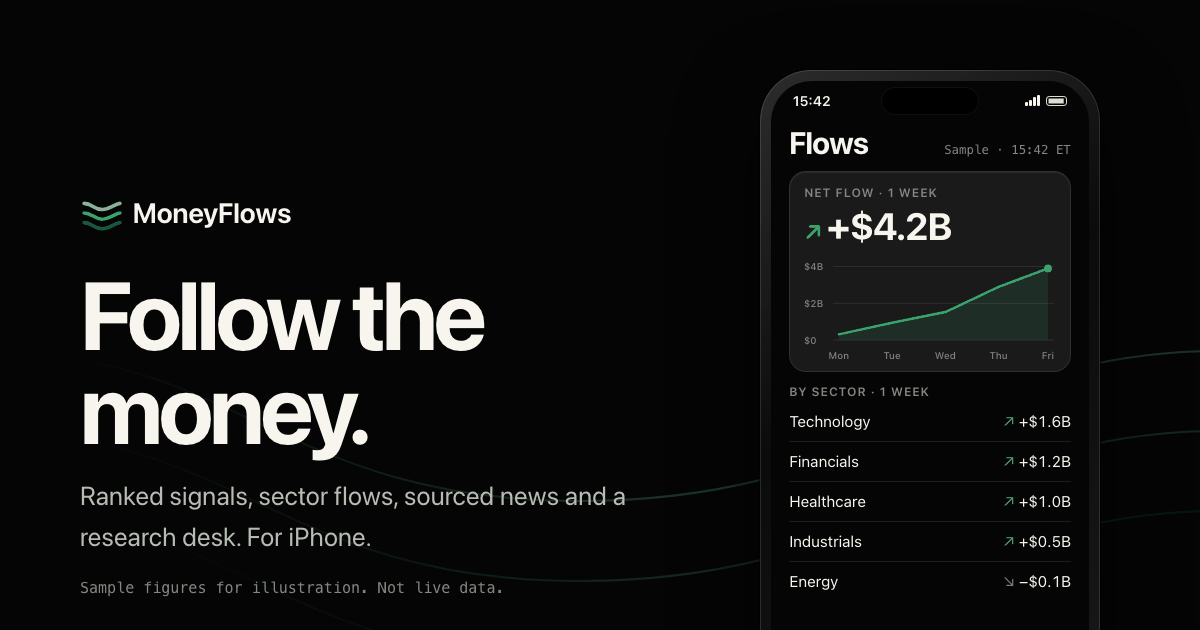
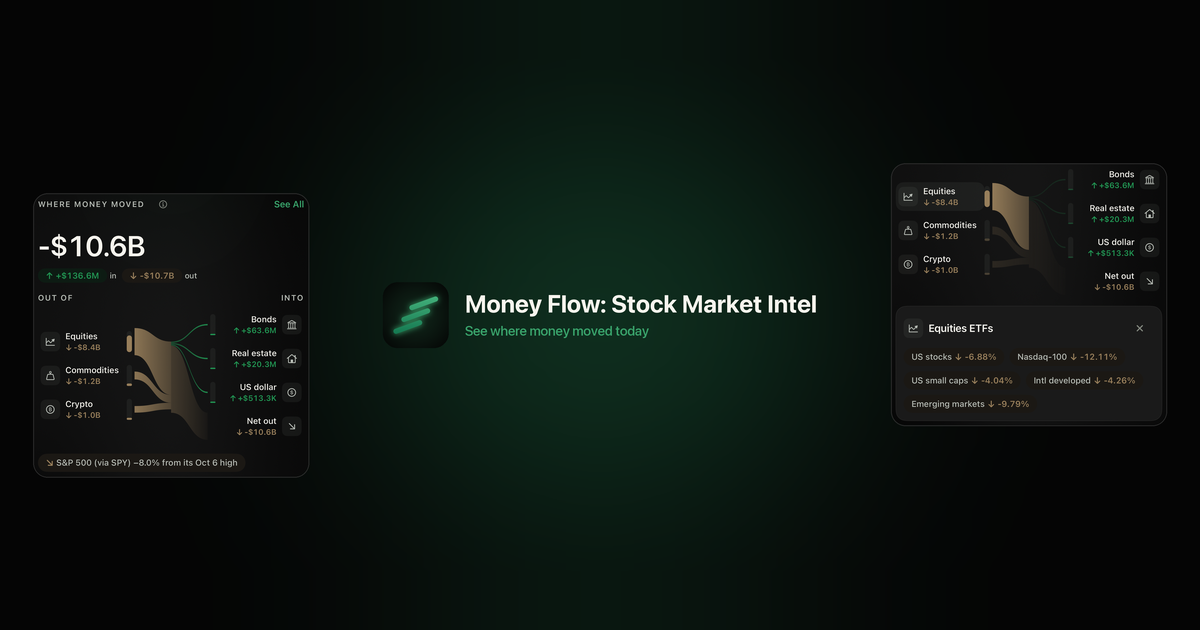
Real app screens from the 2.6.1 redesign, copy matches the new store page
Replace the drawn phones with captured Home, flows, sectors, stock, news and
research screens (WebP 400/800 with PNG fallback, lazy below the hero, light
Home in light mode). Hero, meta, pillars, tour and FAQ follow the new store
copy: see where money moved today, iPhone and iPad, prices 15-minute delayed,
flows are estimates. og.png rebuilt from the store header art.

diff --git a/index.html b/index.html
@@ -3,18 +3,18 @@
 <head>
 <meta charset="UTF-8">
 <meta name="viewport" content="width=device-width, initial-scale=1, viewport-fit=cover">
-<title>MoneyFlows: Follow the money.</title>
-<meta name="description" content="See where money is moving in the market, and why. Ranked signals, sector flows, news that names its source and an AI research assistant, for iPhone.">
+<title>MoneyFlows: See where money moved today.</title>
+<meta name="description" content="See where money is moving today, from stocks and sectors to bonds, gold, oil and crypto, in one calm view. For iPhone and iPad.">
 <meta name="theme-color" content="#050505" media="(prefers-color-scheme: dark)">
 <meta name="theme-color" content="#f2f4f6" media="(prefers-color-scheme: light)">
-<meta property="og:title" content="MoneyFlows: Follow the money.">
-<meta property="og:description" content="See where money is moving in the market, and why. Ranked signals, sector flows, news that names its source and an AI research assistant, for iPhone.">
+<meta property="og:title" content="MoneyFlows: See where money moved today.">
+<meta property="og:description" content="See where money is moving today, from stocks and sectors to bonds, gold, oil and crypto, in one calm view. For iPhone and iPad.">
 <meta property="og:type" content="website">
 <meta property="og:url" content="https://yrafique.github.io/">
 <meta property="og:image" content="https://yrafique.github.io/og.png">
 <meta property="og:image:width" content="1200">
 <meta property="og:image:height" content="630">
-<meta property="og:image:alt" content="MoneyFlows: Follow the money. Illustration of the app with sample figures.">
+<meta property="og:image:alt" content="Money Flow: Stock Market Intel. See where money moved today. App screens showing estimated flows across asset classes.">
 <meta name="twitter:card" content="summary_large_image">
 <meta name="apple-itunes-app" content="app-id=6760608278">
 <link rel="canonical" href="https://yrafique.github.io/">
@@ -22,7 +22,7 @@
 <link rel="apple-touch-icon" href="apple-touch-icon.png">
 <link rel="stylesheet" href="styles.css">
 <script>document.documentElement.classList.add("js")</script>
-<script type="application/ld+json">{"@context":"https://schema.org","@type":"SoftwareApplication","name":"MoneyFlows","operatingSystem":"iOS","applicationCategory":"FinanceApplication","description":"Market research for iPhone: ranked signals, sector flows, news that names its source and an AI research assistant. Research, not advice.","url":"https://yrafique.github.io/","downloadUrl":"https://apps.apple.com/us/app/id6760608278","installUrl":"https://apps.apple.com/us/app/id6760608278","image":"https://yrafique.github.io/og.png"}</script>
+<script type="application/ld+json">{"@context":"https://schema.org","@type":"SoftwareApplication","name":"MoneyFlows","operatingSystem":"iOS","applicationCategory":"FinanceApplication","description":"See where money is moving today, from stocks and sectors to bonds, gold, oil and crypto. Research, not advice.","url":"https://yrafique.github.io/","downloadUrl":"https://apps.apple.com/us/app/id6760608278","installUrl":"https://apps.apple.com/us/app/id6760608278","image":"https://yrafique.github.io/og.png"}</script>
 </head>
 <body>
 <a class="skip" href="#main">Skip to content</a>
@@ -57,33 +57,18 @@
 </svg>
   <div class="wrap hero-grid">
     <div class="hero-copy">
-      <p class="eyebrow">Market research for iPhone</p>
-      <h1 id="hero-h">Follow the money.</h1>
-      <p class="lede">See where money is moving and why: ranked signals, sector flows, news that names its source, and a research assistant that shows its work.</p>
+      <p class="eyebrow">Market research for iPhone and iPad</p>
+      <h1 id="hero-h">See where money moved today.</h1>
+      <p class="lede">From stocks and sectors to bonds, gold, oil and crypto, in one calm view. One flow visual shows which asset classes drew money in and which saw it leave.</p>
       <div class="cta-row">
         <a class="btn btn-primary btn-lg" href="https://apps.apple.com/us/app/id6760608278">Download on the App Store</a>
         <a class="btn btn-quiet btn-lg" href="#tour">See how it works</a>
       </div>
-      <p class="fine">Research, not advice. Prices may be delayed up to about 15 minutes.</p>
+      <p class="fine">Research, not advice. Stock prices are 15-minute delayed. Flows are estimates from price and volume, not reported fund flows.</p>
     </div>
-    <div class="hero-device h-in" style="--d:1"><figure class="shot hero-shot" id="shot-hero" data-name="Flows">
-  <div class="phone"><div class="screen"><div class="status" aria-hidden="true"><span class="clock">15:42</span><span class="island"></span><span class="sys"><i></i><i></i><i></i><i></i><em></em></span></div><div class="app"><div class="app-title"><b>Flows</b><span class="stamp">Sample &middot; 15:42 ET</span></div>
-<div class="tile">
-  <p class="app-eye">Net flow &middot; 1 week</p>
-  <p class="big"><span class="up" aria-hidden="true">&#8599;</span><span class="tab">+$<span data-roll="4.2">4.2</span>B</span></p>
-  <svg class="spark" viewBox="0 0 260 112" width="260" height="112" aria-hidden="true">
-    <line class="grid" x1="30" x2="258" y1="14" y2="14"/><line class="grid" x1="30" x2="258" y1="52" y2="52"/><line class="grid" x1="30" x2="258" y1="90" y2="90"/>
-    <text x="0" y="18">$4B</text><text x="0" y="56">$2B</text><text x="0" y="94">$0</text>
-    <path class="area" d="M36 84 L91 72 L146 61 L201 35 L252 16 L252 90 L36 90 Z"/>
-    <path class="line" pathLength="1" d="M36 84 L91 72 L146 61 L201 35 L252 16"/>
-    <circle class="dot" cx="252" cy="16" r="4"/>
-    <text x="36" y="109" text-anchor="middle">Mon</text><text x="91" y="109" text-anchor="middle">Tue</text><text x="146" y="109" text-anchor="middle">Wed</text><text x="201" y="109" text-anchor="middle">Thu</text><text x="252" y="109" text-anchor="middle">Fri</text>
-  </svg>
-</div>
-<p class="app-eye pad">By sector &middot; 1 week</p>
-<ul class="list"><li class="row" style="--i:0"><span>Technology</span><span class="tab"><span class="up" aria-hidden="true">&#8599;</span> +$1.6B</span></li><li class="row" style="--i:1"><span>Financials</span><span class="tab"><span class="up" aria-hidden="true">&#8599;</span> +$1.2B</span></li><li class="row" style="--i:2"><span>Healthcare</span><span class="tab"><span class="up" aria-hidden="true">&#8599;</span> +$1.0B</span></li><li class="row" style="--i:3"><span>Industrials</span><span class="tab"><span class="up" aria-hidden="true">&#8599;</span> +$0.5B</span></li><li class="row" style="--i:4"><span>Energy</span><span class="tab"><span class="down" aria-hidden="true">&#8600;</span> &minus;$0.1B</span></li></ul>
-<p class="app-note">Updated 15:42 ET &middot; Delayed up to ~15 min</p></div><div class="tabs" aria-hidden="true"><span class=""><svg class="ico" width="24" height="24" aria-hidden="true" focusable="false"><use href="#i-home"/></svg><b>Home</b></span><span class="on"><svg class="ico" width="24" height="24" aria-hidden="true" focusable="false"><use href="#i-markets"/></svg><b>Markets</b></span><span class=""><svg class="ico" width="24" height="24" aria-hidden="true" focusable="false"><use href="#i-search"/></svg><b>Search</b></span><span class=""><svg class="ico" width="24" height="24" aria-hidden="true" focusable="false"><use href="#i-signals"/></svg><b>Signals</b></span><span class=""><svg class="ico" width="24" height="24" aria-hidden="true" focusable="false"><use href="#i-portfolio"/></svg><b>Portfolio</b></span></div></div></div>
-  <figcaption class="stamp">Sample figures for illustration. Not live data.</figcaption>
+    <div class="hero-device h-in" style="--d:1"><figure class="shot hero-shot" id="shot-hero">
+  <div class="phone"><div class="screen"><picture><source media="(prefers-color-scheme: light)" type="image/webp" srcset="img/home-light-400.webp 400w, img/home-light-800.webp 800w" sizes="(min-width: 900px) 312px, 84vw"><source type="image/webp" srcset="img/home-400.webp 400w, img/home-800.webp 800w" sizes="(min-width: 900px) 312px, 84vw"><img src="img/home-400.png" width="400" height="869" alt="Money Flow Home screen: one month of estimated flows, with money leaving equities, commodities and crypto and going into bonds, real estate and the US dollar." decoding="async" fetchpriority="high"></picture></div></div>
+  <figcaption class="stamp">Real app screen, captured Nov 25, 2026. Flows are estimates.</figcaption>
 </figure></div>
   </div>
 </section>
@@ -92,69 +77,46 @@
   <div class="wrap">
     <h2 id="pill-h" class="sr">What you get</h2>
     <div class="trio">
-      <div class="pillar reveal"><svg class="ico lg" width="24" height="24" aria-hidden="true" focusable="false"><use href="#i-eye"/></svg><p class="eyebrow">See it</p><h3>Signals and flows</h3><p>Unusual activity ranked by one score, and sector flows from one day to five years on charts that label their units.</p></div>
+      <div class="pillar reveal"><svg class="ico lg" width="24" height="24" aria-hidden="true" focusable="false"><use href="#i-eye"/></svg><p class="eyebrow">See it</p><h3>Where money moved</h3><p>Estimated flows across 20 asset classes and all 11 sectors, for any period from one day to five years.</p></div>
       <div class="pillar reveal" style="--i:1"><svg class="ico lg" width="24" height="24" aria-hidden="true" focusable="false"><use href="#i-stamp"/></svg><p class="eyebrow">Trust it</p><h3>Named sources, stamped times</h3><p>Every headline names its publisher. Every figure shows when it was updated. Missing data is shown as missing.</p></div>
-      <div class="pillar reveal" style="--i:2"><svg class="ico lg" width="24" height="24" aria-hidden="true" focusable="false"><use href="#i-chat"/></svg><p class="eyebrow">Ask it</p><h3>A research desk in plain English</h3><p>Ask about a stock, a sector or the day. Answers come from the app&rsquo;s own data and cite what they use.</p></div>
+      <div class="pillar reveal" style="--i:2"><svg class="ico lg" width="24" height="24" aria-hidden="true" focusable="false"><use href="#i-chat"/></svg><p class="eyebrow">Ask it</p><h3>A research desk in plain language</h3><p>Ask about a stock, a sector or the day. Answers come with charts and the sources behind them.</p></div>
     </div>
   </div>
 </section>
 
 <section class="tour-sec" id="tour" aria-labelledby="tour-h">
   <div class="wrap">
-    <div class="sec-head reveal"><p class="eyebrow">A tour of the app</p><h2 id="tour-h">Five screens. One quiet instrument.</h2></div>
-    <div class="tour"><article class="chap" id="ch-signals" data-i="0" style="--o:1">
-  <p class="eyebrow"><span class="num tab">01</span> Signals</p>
-  <h3>Unusual activity, ranked.</h3><p>Volume, price and flow are scored together, so the stocks worth a closer look rise to the top.</p><ul class="points"><li>One score per stock, the same number on every screen</li><li>Pre-market and after-hours moves kept apart from the close</li><li>Every score explained, never a bare verdict</li></ul>
-</article><article class="chap" id="ch-flows" data-i="1" style="--o:3">
-  <p class="eyebrow"><span class="num tab">02</span> Flows</p>
-  <h3>See where the money moved.</h3><p>Net flow by sector over the period you choose, from one day to five years. Axes carry their units, and every figure matches the period on screen.</p><ul class="points"><li>Six periods, one tap each. Try them on the phone</li><li>Inflows in green, outflows in bronze, always with an arrow</li></ul>
-</article><article class="chap" id="ch-news" data-i="2" style="--o:5">
-  <p class="eyebrow"><span class="num tab">03</span> News</p>
-  <h3>Every headline names its source.</h3><p>Market news from about 50 publishers, newest first. Each item shows who published it and when, and opens the publisher&rsquo;s own page.</p><ul class="points"><li>Publisher and time on every headline</li><li>Subscription sources are marked before you tap</li><li>Public filings sit alongside, clearly labelled</li></ul>
-</article><article class="chap" id="ch-desk" data-i="3" style="--o:7">
-  <p class="eyebrow"><span class="num tab">04</span> Research desk</p>
-  <h3>Ask in plain English.</h3><p>Ask about a stock, a sector or the day. The assistant answers from the data the app has loaded, stamps when it was updated and cites the publisher of any headline it uses.</p><ul class="points"><li>Shows its sources and its time</li><li>Research, not advice</li><li>Turns off completely if you prefer</li></ul>
-</article><article class="chap" id="ch-portfolio" data-i="4" style="--o:9">
-  <p class="eyebrow"><span class="num tab">05</span> Portfolio</p>
-  <h3>Your holdings stay on your iPhone.</h3><p>Track what you own with risk measures that state their period. Nothing is uploaded to us, and there is no account.</p><ul class="points"><li>Stored on your device, or your own iCloud if you turn sync on</li><li>AI review is opt-in, and off by default</li><li>Every risk figure labelled with its period</li></ul>
-</article><div class="device"><figure data-i="0" style="--o:2" class="shot " id="shot-signals" data-name="Signals">
-  <div class="phone"><div class="screen"><div class="status" aria-hidden="true"><span class="clock">15:42</span><span class="island"></span><span class="sys"><i></i><i></i><i></i><i></i><em></em></span></div><div class="app"><div class="app-title"><b>Signals</b><span class="stamp">Updated 15:42 ET</span></div>
-<div class="chips" aria-hidden="true"><span class="on">Unusual activity</span><span>Today</span></div>
-<ul class="list sig"><li class="row" style="--i:0"><span class="ring" style="--s:84"><svg viewBox="0 0 36 36" width="36" height="36" aria-hidden="true"><circle class="rt" cx="18" cy="18" r="15.5" pathLength="100"/><circle class="rv" cx="18" cy="18" r="15.5" pathLength="100"/></svg><b class="tab">84</b><span class="sr"> score</span></span><span class="who"><b>Company A</b><span class="stamp">2.4&times; vol &middot; Technology</span></span><span class="tab chg"><span class="up" aria-hidden="true">&#8599;</span> +3.1%</span></li><li class="row" style="--i:1"><span class="ring" style="--s:72"><svg viewBox="0 0 36 36" width="36" height="36" aria-hidden="true"><circle class="rt" cx="18" cy="18" r="15.5" pathLength="100"/><circle class="rv" cx="18" cy="18" r="15.5" pathLength="100"/></svg><b class="tab">72</b><span class="sr"> score</span></span><span class="who"><b>Company B</b><span class="stamp">2.0&times; vol &middot; Financials</span></span><span class="tab chg"><span class="up" aria-hidden="true">&#8599;</span> +1.2%</span></li><li class="row" style="--i:2"><span class="ring" style="--s:66"><svg viewBox="0 0 36 36" width="36" height="36" aria-hidden="true"><circle class="rt" cx="18" cy="18" r="15.5" pathLength="100"/><circle class="rv" cx="18" cy="18" r="15.5" pathLength="100"/></svg><b class="tab">66</b><span class="sr"> score</span></span><span class="who"><b>Company C</b><span class="stamp">1.8&times; vol &middot; Healthcare</span></span><span class="tab chg"><span class="up" aria-hidden="true">&#8599;</span> +0.8%</span></li><li class="row" style="--i:3"><span class="ring" style="--s:58"><svg viewBox="0 0 36 36" width="36" height="36" aria-hidden="true"><circle class="rt" cx="18" cy="18" r="15.5" pathLength="100"/><circle class="rv" cx="18" cy="18" r="15.5" pathLength="100"/></svg><b class="tab">58</b><span class="sr"> score</span></span><span class="who"><b>Company D</b><span class="stamp">1.6&times; vol &middot; Energy</span></span><span class="tab chg"><span class="down" aria-hidden="true">&#8600;</span> &minus;0.7%</span></li><li class="row" style="--i:4"><span class="ring" style="--s:51"><svg viewBox="0 0 36 36" width="36" height="36" aria-hidden="true"><circle class="rt" cx="18" cy="18" r="15.5" pathLength="100"/><circle class="rv" cx="18" cy="18" r="15.5" pathLength="100"/></svg><b class="tab">51</b><span class="sr"> score</span></span><span class="who"><b>Company E</b><span class="stamp">1.4&times; vol &middot; Industrials</span></span><span class="tab chg"><span class="up" aria-hidden="true">&#8599;</span> +0.3%</span></li><li class="row" style="--i:5"><span class="ring" style="--s:47"><svg viewBox="0 0 36 36" width="36" height="36" aria-hidden="true"><circle class="rt" cx="18" cy="18" r="15.5" pathLength="100"/><circle class="rv" cx="18" cy="18" r="15.5" pathLength="100"/></svg><b class="tab">47</b><span class="sr"> score</span></span><span class="who"><b>Company F</b><span class="stamp">1.3&times; vol &middot; Utilities</span></span><span class="tab chg"><span class="up" aria-hidden="true">&#8599;</span> +0.2%</span></li></ul>
-<p class="app-note">One score per stock, on every screen.</p></div><div class="tabs" aria-hidden="true"><span class=""><svg class="ico" width="24" height="24" aria-hidden="true" focusable="false"><use href="#i-home"/></svg><b>Home</b></span><span class=""><svg class="ico" width="24" height="24" aria-hidden="true" focusable="false"><use href="#i-markets"/></svg><b>Markets</b></span><span class=""><svg class="ico" width="24" height="24" aria-hidden="true" focusable="false"><use href="#i-search"/></svg><b>Search</b></span><span class="on"><svg class="ico" width="24" height="24" aria-hidden="true" focusable="false"><use href="#i-signals"/></svg><b>Signals</b></span><span class=""><svg class="ico" width="24" height="24" aria-hidden="true" focusable="false"><use href="#i-portfolio"/></svg><b>Portfolio</b></span></div></div></div>
-  <figcaption class="stamp">Sample figures for illustration. Not live data.</figcaption>
-</figure><figure data-i="1" style="--o:4" class="shot " id="shot-flows" data-name="Flows">
-  <div class="phone"><div class="screen"><div class="status" aria-hidden="true"><span class="clock">15:42</span><span class="island"></span><span class="sys"><i></i><i></i><i></i><i></i><em></em></span></div><div class="app"><div class="app-title"><b>Flows</b><span class="stamp">Updated 15:42 ET</span></div>
-<div class="periods" role="group" aria-label="Period"><button type="button" data-p="1D" aria-pressed="false">1D</button><button type="button" data-p="1W" aria-pressed="true">1W</button><button type="button" data-p="1M" aria-pressed="false">1M</button><button type="button" data-p="3M" aria-pressed="false">3M</button><button type="button" data-p="1Y" aria-pressed="false">1Y</button><button type="button" data-p="5Y" aria-pressed="false">5Y</button></div>
-<div class="tile ftot"><span class="app-eye">All sectors &middot; <span class="pname">1W</span></span><b class="tab ftotal"><span class="up" aria-hidden="true">&#8599;</span> +$6.2B</b></div>
-<p class="app-eye pad">By sector, US$ &middot; <span class="pname">1W</span></p>
-<ul class="flows" data-flows='{"sectors":["Technology","Financials","Healthcare","Industrials","Utilities","Energy"],"periods":{"1D":[0.8,1.2,1.0,-0.09,0.2,-0.3],"1W":[3.1,2.4,1.6,0.4,-0.2,-1.1],"1M":[9.8,6.2,4.1,2.2,-1.4,-3.5],"3M":[21,14,8.5,5.1,3.0,-9.2],"1Y":[64,38,22,12,-6.5,-31],"5Y":[210,96,71,35,18,-88]}}'><li style="--i:0"><span class="fname">Technology</span><span class="ftrack"><i class="fneg" style="--w:0.000"></i><i class="fpos" style="--w:0.620"></i></span><span class="fval"><span class="up" aria-hidden="true">&#8599;</span> <span class="fnum">+$3.1B</span></span></li><li style="--i:1"><span class="fname">Financials</span><span class="ftrack"><i class="fneg" style="--w:0.000"></i><i class="fpos" style="--w:0.480"></i></span><span class="fval"><span class="up" aria-hidden="true">&#8599;</span> <span class="fnum">+$2.4B</span></span></li><li style="--i:2"><span class="fname">Healthcare</span><span class="ftrack"><i class="fneg" style="--w:0.000"></i><i class="fpos" style="--w:0.320"></i></span><span class="fval"><span class="up" aria-hidden="true">&#8599;</span> <span class="fnum">+$1.6B</span></span></li><li style="--i:3"><span class="fname">Industrials</span><span class="ftrack"><i class="fneg" style="--w:0.000"></i><i class="fpos" style="--w:0.080"></i></span><span class="fval"><span class="up" aria-hidden="true">&#8599;</span> <span class="fnum">+$400M</span></span></li><li style="--i:4"><span class="fname">Utilities</span><span class="ftrack"><i class="fneg" style="--w:0.080"></i><i class="fpos" style="--w:0.000"></i></span><span class="fval"><span class="down" aria-hidden="true">&#8600;</span> <span class="fnum">&minus;$200M</span></span></li><li style="--i:5"><span class="fname">Energy</span><span class="ftrack"><i class="fneg" style="--w:0.440"></i><i class="fpos" style="--w:0.000"></i></span><span class="fval"><span class="down" aria-hidden="true">&#8600;</span> <span class="fnum">&minus;$1.1B</span></span></li></ul>
-<div class="axis" aria-hidden="true"><span class="ticks"><span style="--x:0">&minus;$2.5B</span><span style="--x:1">$0</span><span style="--x:2">+$2.5B</span><span style="--x:3">+$5B</span></span></div>
-<p class="app-note"><span class="up" aria-hidden="true">&#8599;</span> inflow &nbsp; <span class="down" aria-hidden="true">&#8600;</span> outflow, always with an arrow.</p></div><div class="tabs" aria-hidden="true"><span class=""><svg class="ico" width="24" height="24" aria-hidden="true" focusable="false"><use href="#i-home"/></svg><b>Home</b></span><span class="on"><svg class="ico" width="24" height="24" aria-hidden="true" focusable="false"><use href="#i-markets"/></svg><b>Markets</b></span><span class=""><svg class="ico" width="24" height="24" aria-hidden="true" focusable="false"><use href="#i-search"/></svg><b>Search</b></span><span class=""><svg class="ico" width="24" height="24" aria-hidden="true" focusable="false"><use href="#i-signals"/></svg><b>Signals</b></span><span class=""><svg class="ico" width="24" height="24" aria-hidden="true" focusable="false"><use href="#i-portfolio"/></svg><b>Portfolio</b></span></div></div></div>
-  <figcaption class="stamp">Sample figures for illustration. Not live data.</figcaption>
-</figure><figure data-i="2" style="--o:6" class="shot " id="shot-news" data-name="News">
-  <div class="phone"><div class="screen"><div class="status" aria-hidden="true"><span class="clock">15:42</span><span class="island"></span><span class="sys"><i></i><i></i><i></i><i></i><em></em></span></div><div class="app"><div class="app-title"><b>News</b><span class="stamp">Newest first</span></div>
-<div class="chips" aria-hidden="true"><span class="on">Market</span><span>Watchlist</span><span>Filings</span></div>
-<ul class="list"><li class="row news" style="--i:0"><b>Central bank holds rates steady, signals patience</b><span class="stamp">Publisher A &middot; 12 min</span></li><li class="row news" style="--i:1"><b>Chipmaker lifts full-year outlook after strong quarter</b><span class="stamp">Publisher B &middot; 41 min</span><span class="sub"><svg class="ico xs" width="24" height="24" aria-hidden="true" focusable="false"><use href="#i-lock"/></svg>Subscription</span></li><li class="row news" style="--i:2"><b>Oil edges higher as weekly inventories fall</b><span class="stamp">Publisher C &middot; 1 h</span></li><li class="row news" style="--i:3"><b>Company D files quarterly report</b><span class="stamp">Public filing &middot; 2 h</span></li><li class="row news" style="--i:4"><b>Treasury yields slip after jobs data</b><span class="stamp">Publisher D &middot; 3 h</span></li></ul>
-<p class="app-note">Sample headlines. Tap one to open the publisher&rsquo;s page.</p></div><div class="tabs" aria-hidden="true"><span class="on"><svg class="ico" width="24" height="24" aria-hidden="true" focusable="false"><use href="#i-home"/></svg><b>Home</b></span><span class=""><svg class="ico" width="24" height="24" aria-hidden="true" focusable="false"><use href="#i-markets"/></svg><b>Markets</b></span><span class=""><svg class="ico" width="24" height="24" aria-hidden="true" focusable="false"><use href="#i-search"/></svg><b>Search</b></span><span class=""><svg class="ico" width="24" height="24" aria-hidden="true" focusable="false"><use href="#i-signals"/></svg><b>Signals</b></span><span class=""><svg class="ico" width="24" height="24" aria-hidden="true" focusable="false"><use href="#i-portfolio"/></svg><b>Portfolio</b></span></div></div></div>
-  <figcaption class="stamp">Sample figures for illustration. Not live data.</figcaption>
-</figure><figure data-i="3" style="--o:8" class="shot " id="shot-desk" data-name="Research desk">
-  <div class="phone"><div class="screen"><div class="status" aria-hidden="true"><span class="clock">15:42</span><span class="island"></span><span class="sys"><i></i><i></i><i></i><i></i><em></em></span></div><div class="app"><div class="app-title"><b>Research</b><span class="stamp">Research desk</span></div>
-<div class="chat">
-  <p class="bubble you">Why did financials lead inflows this week?</p>
-  <div class="bubble desk"><p class="typed"><span class="w">Financials</span> <span class="w">took</span> <span class="w">the</span> <span class="w">largest</span> <span class="w">net</span> <span class="w">inflow</span> <span class="w">this</span> <span class="w">week,</span> <span class="w">about</span> <span class="w">$1.2B</span> <span class="w">in</span> <span class="w">this</span> <span class="w">sample,</span> <span class="w">with</span> <span class="w">volume</span> <span class="w">running</span> <span class="w">above</span> <span class="w">its</span> <span class="w">20-day</span> <span class="w">average.</span> <span class="w">Two</span> <span class="w">headlines</span> <span class="w">point</span> <span class="w">to</span> <span class="w">rate</span> <span class="w">expectations</span> <span class="w">as</span> <span class="w">the</span> <span class="w">driver.</span></p>
-    <p class="cite stamp">Sources: Publisher A &middot; Publisher C</p>
-    <p class="stamp">Updated 15:42 ET &middot; Research, not advice</p></div>
-</div>
-<div class="suggest" aria-hidden="true"><span>Show the headlines</span><span>Compare with healthcare</span></div>
-<div class="composer" aria-hidden="true">Ask about a stock or sector</div></div><div class="tabs" aria-hidden="true"><span class=""><svg class="ico" width="24" height="24" aria-hidden="true" focusable="false"><use href="#i-home"/></svg><b>Home</b></span><span class=""><svg class="ico" width="24" height="24" aria-hidden="true" focusable="false"><use href="#i-markets"/></svg><b>Markets</b></span><span class="on"><svg class="ico" width="24" height="24" aria-hidden="true" focusable="false"><use href="#i-search"/></svg><b>Search</b></span><span class=""><svg class="ico" width="24" height="24" aria-hidden="true" focusable="false"><use href="#i-signals"/></svg><b>Signals</b></span><span class=""><svg class="ico" width="24" height="24" aria-hidden="true" focusable="false"><use href="#i-portfolio"/></svg><b>Portfolio</b></span></div></div></div>
-  <figcaption class="stamp">Illustration. Real answers use the app&rsquo;s own data.</figcaption>
-</figure><figure data-i="4" style="--o:10" class="shot " id="shot-portfolio" data-name="Portfolio">
-  <div class="phone"><div class="screen"><div class="status" aria-hidden="true"><span class="clock">15:42</span><span class="island"></span><span class="sys"><i></i><i></i><i></i><i></i><em></em></span></div><div class="app"><div class="app-title"><b>Portfolio</b><span class="badge"><svg class="ico xs" width="24" height="24" aria-hidden="true" focusable="false"><use href="#i-lock"/></svg>On this iPhone</span></div>
-<ul class="list hold"><li class="row" style="--i:0"><span>Holding A</span><span class="tab">28%</span></li><li class="row" style="--i:1"><span>Holding B</span><span class="tab">22%</span></li><li class="row" style="--i:2"><span>Holding C</span><span class="tab">14%</span></li><li class="row" style="--i:3"><span>Holding D</span><span class="tab">13%</span></li><li class="row" style="--i:4"><span>Holding E</span><span class="tab">11%</span></li><li class="row" style="--i:5"><span>Cash</span><span class="tab">12%</span></li></ul>
-<div class="risks"><div class="risk row" style="--i:2"><span class="app-eye">Beta &middot; 1Y</span><b class="tab">1.08</b></div><div class="risk row" style="--i:3"><span class="app-eye">Volatility &middot; 1Y</span><b class="tab">18.4%</b></div><div class="risk row" style="--i:4"><span class="app-eye">Drawdown &middot; 1Y</span><b class="tab"><span class="down" aria-hidden="true">&#8600;</span> &minus;12.6%</b></div><div class="risk row" style="--i:5"><span class="app-eye">Top 3 weight</span><b class="tab">64%</b></div></div>
-<div class="optin"><span><b>AI review</b><span class="stamp">Off until you turn it on</span></span><span class="switch" aria-hidden="true"><i></i></span><span class="sr">Off</span></div></div><div class="tabs" aria-hidden="true"><span class=""><svg class="ico" width="24" height="24" aria-hidden="true" focusable="false"><use href="#i-home"/></svg><b>Home</b></span><span class=""><svg class="ico" width="24" height="24" aria-hidden="true" focusable="false"><use href="#i-markets"/></svg><b>Markets</b></span><span class=""><svg class="ico" width="24" height="24" aria-hidden="true" focusable="false"><use href="#i-search"/></svg><b>Search</b></span><span class=""><svg class="ico" width="24" height="24" aria-hidden="true" focusable="false"><use href="#i-signals"/></svg><b>Signals</b></span><span class="on"><svg class="ico" width="24" height="24" aria-hidden="true" focusable="false"><use href="#i-portfolio"/></svg><b>Portfolio</b></span></div></div></div>
-  <figcaption class="stamp">Sample figures for illustration. Not live data.</figcaption>
+    <div class="sec-head reveal"><p class="eyebrow">A tour of the app</p><h2 id="tour-h">Five screens from the app, as they are.</h2></div>
+    <div class="tour"><article class="chap" id="ch-flows" data-i="0" style="--o:1">
+  <p class="eyebrow"><span class="num tab">01</span> Flows</p>
+  <h3>Follow the money across the market.</h3><p>One flow visual shows which asset classes drew money in and which saw it leave. Tap a class to see the ETF moves behind it.</p><ul class="points"><li>20 asset classes: stocks, Treasuries, corporate bonds, gold, oil, crypto, real estate and the dollar</li><li>Any period from 1 day to 5 years</li><li>Inflows in green, outflows in bronze, always with an arrow</li></ul>
+</article><article class="chap" id="ch-sectors" data-i="1" style="--o:3">
+  <p class="eyebrow"><span class="num tab">02</span> Sectors</p>
+  <h3>All 11 sectors, one scale.</h3><p>Estimated flows for every sector, ranked on one shared scale, each with its ETF price move for the same period.</p><ul class="points"><li>Tap a sector to open its ETF page</li><li>Every move names the close it is measured from</li></ul>
+</article><article class="chap" id="ch-stock" data-i="2" style="--o:5">
+  <p class="eyebrow"><span class="num tab">03</span> Stocks</p>
+  <h3>Understand why a stock moved.</h3><p>Stock pages with charts, company data, insider (Form 4) buying and selling, 13F holdings and short volume.</p><ul class="points"><li>Prices are 15-minute delayed, and say so</li><li>Signals flag unusual volume, price and flow activity</li></ul>
+</article><article class="chap" id="ch-news" data-i="3" style="--o:7">
+  <p class="eyebrow"><span class="num tab">04</span> News</p>
+  <h3>Each story once, with every outlet.</h3><p>News from about 50 sources plus public filings. A story appears once, with every outlet that reported it.</p><ul class="points"><li>Publisher and time on every headline</li><li>Subscription sources are marked before you tap</li></ul>
+</article><article class="chap" id="ch-research" data-i="4" style="--o:9">
+  <p class="eyebrow"><span class="num tab">05</span> Research desk</p>
+  <h3>Ask in plain language.</h3><p>Ask questions like “what moved semiconductors this week?” and get charts and the sources behind each answer.</p><ul class="points"><li>Memory stays on your device; view, edit or clear it any time</li><li>Research, not advice</li></ul>
+</article><div class="device"><figure data-i="0" style="--o:2" class="shot" id="shot-flows">
+  <div class="phone"><div class="screen"><picture><source type="image/webp" srcset="img/flows-400.webp 400w, img/flows-800.webp 800w" sizes="(min-width: 900px) 312px, 84vw"><img src="img/flows-400.png" width="400" height="869" alt="Home screen with Equities tapped: the flow visual dims the other bands and lists Equities ETF moves, US stocks down 6.88% and Nasdaq-100 down 12.11% over the month." decoding="async" loading="lazy"></picture></div></div>
+  <figcaption class="stamp">Real app screen, captured Nov 25, 2026. Flows are estimates.</figcaption>
+</figure><figure data-i="1" style="--o:4" class="shot" id="shot-sectors">
+  <div class="phone"><div class="screen"><picture><source type="image/webp" srcset="img/sectors-400.webp 400w, img/sectors-800.webp 800w" sizes="(min-width: 900px) 312px, 84vw"><img src="img/sectors-400.png" width="400" height="869" alt="Markets, Sectors tab: net estimated sector flow of minus 1.3 billion dollars for the month, led by Consumer Staples inflows." decoding="async" loading="lazy"></picture></div></div>
+  <figcaption class="stamp">Real app screen, captured Nov 25, 2026. Flows are estimates.</figcaption>
+</figure><figure data-i="2" style="--o:6" class="shot" id="shot-stock">
+  <div class="phone"><div class="screen"><picture><source type="image/webp" srcset="img/stock-400.webp 400w, img/stock-800.webp 800w" sizes="(min-width: 900px) 312px, 84vw"><img src="img/stock-400.png" width="400" height="869" alt="Stock page for NVDA with its price, the day’s move and a five-day price chart." decoding="async" loading="lazy"></picture></div></div>
+  <figcaption class="stamp">Real app screen, captured Nov 25, 2026. Flows are estimates.</figcaption>
+</figure><figure data-i="3" style="--o:8" class="shot" id="shot-news">
+  <div class="phone"><div class="screen"><picture><source type="image/webp" srcset="img/news-400.webp 400w, img/news-800.webp 800w" sizes="(min-width: 900px) 312px, 84vw"><img src="img/news-400.png" width="400" height="869" alt="News Impact screen: market-moving headlines, each listing the outlets that reported it." decoding="async" loading="lazy"></picture></div></div>
+  <figcaption class="stamp">Real app screen, captured Nov 25, 2026. Flows are estimates.</figcaption>
+</figure><figure data-i="4" style="--o:10" class="shot" id="shot-research">
+  <div class="phone"><div class="screen"><picture><source type="image/webp" srcset="img/research-400.webp 400w, img/research-800.webp 800w" sizes="(min-width: 900px) 312px, 84vw"><img src="img/research-400.png" width="400" height="869" alt="Research screen with a search field, a short set-up card and suggested questions." decoding="async" loading="lazy"></picture></div></div>
+  <figcaption class="stamp">Real app screen, captured Nov 25, 2026. Flows are estimates.</figcaption>
 </figure></div></div>
   </div>
 </section>
@@ -190,7 +152,7 @@
     <div class="reveal">
       <p class="eyebrow">Private by default</p>
       <h2 id="priv-h">Your money is your business.</h2>
-      <p>No account, no ads, no tracking. Your holdings stay on your iPhone, and in your own iCloud if you turn sync on. The AI assistant sees your portfolio only if you switch that on, and you can switch it off at any time.</p>
+      <p>No account, no ads, no tracking. Your holdings stay on your device, and in your own iCloud if you turn sync on. The AI assistant sees your portfolio only if you switch that on, and you can switch it off at any time.</p>
       <p class="more"><a href="privacy.html">Read the privacy policy</a></p>
     </div>
     <div class="card privacy-card reveal" style="--i:2">
@@ -198,7 +160,7 @@
       <ul class="facts">
         <li><span>Account required</span><b>None</b></li>
         <li><span>Ads or tracking</span><b>None</b></li>
-        <li><span>Where holdings live</span><b>On your iPhone</b></li>
+        <li><span>Where holdings live</span><b>On your device</b></li>
         <li><span>Portfolio shared with AI</span><b>Only if you turn it on</b></li>
       </ul>
     </div>
@@ -220,7 +182,7 @@
 <section class="block" id="faq" aria-labelledby="faq-h">
   <div class="wrap faq-grid">
     <div class="reveal"><p class="eyebrow">Questions</p><h2 id="faq-h">Good to know.</h2><p class="lede">Anything else? <a href="support.html">Visit support</a>.</p></div>
-    <div class="faq"><details><summary>Is the data real-time?</summary><p>No. Prices may be delayed up to about 15 minutes, and economic data is end-of-day. Every screen shows the time its data was last updated, so you always know how fresh it is.</p></details><details><summary>Where does the data come from?</summary><p>Market data, public regulatory filings and economic data come from third-party providers. Every headline names its publisher and opens the publisher&rsquo;s own page. Economic data from the Federal Reserve is credited to it.</p></details><details><summary>Do I need an account?</summary><p>No. There is no sign-up and no account. Open the app and start reading.</p></details><details><summary>Is my portfolio private?</summary><p>Yes. Holdings stay on your iPhone, and in your own iCloud if you turn sync on. We don&rsquo;t receive them. The AI assistant only sees your portfolio if you switch on portfolio sharing in Settings.</p></details><details><summary>How does the AI research assistant work?</summary><p>It is an AI language model that answers from the market data and headlines the app has already loaded. Some analysis runs on your device; otherwise your question and the relevant market context are sent over an encrypted connection to an AI service to write the answer. It shows when its data was updated and which publishers it used. It can be wrong, and you can turn it off.</p></details><details><summary>Is this investment advice?</summary><p>No. MoneyFlows is a research tool for information and education. Scores, signals and AI answers are not recommendations. Do your own research and consider a licensed professional.</p></details><details><summary>Which devices does it run on?</summary><p>MoneyFlows is an iPhone app. The App Store page lists the iOS version it needs.</p></details><details><summary>How do I contact support?</summary><p>Email <a href="mailto:moneyflowapp@proton.me">moneyflowapp@proton.me</a>. Include your iPhone model, iOS version and app version, and we&rsquo;ll get back to you.</p></details></div>
+    <div class="faq"><details><summary>Is the data real-time?</summary><p>No. Stock prices are 15-minute delayed, and economic data is end-of-day. Money flows are estimates from price and volume, not reported fund flows. Every screen shows the time its data was last updated, so you always know how fresh it is.</p></details><details><summary>Where does the data come from?</summary><p>Market data, public regulatory filings and economic data come from third-party providers. Every headline names its publisher and opens the publisher&rsquo;s own page. Economic data from the Federal Reserve is credited to it.</p></details><details><summary>Do I need an account?</summary><p>No. There is no sign-up and no account. Open the app and start reading.</p></details><details><summary>Is my portfolio private?</summary><p>Yes. Holdings stay on your iPhone, and in your own iCloud if you turn sync on. We don&rsquo;t receive them. The AI assistant only sees your portfolio if you switch on portfolio sharing in Settings.</p></details><details><summary>How does the AI research assistant work?</summary><p>It is an AI language model that answers from the market data and headlines the app has already loaded. Some analysis runs on your device; otherwise your question and the relevant market context are sent over an encrypted connection to an AI service to write the answer. It shows when its data was updated and which publishers it used. It can be wrong, and you can turn it off.</p></details><details><summary>Is this investment advice?</summary><p>No. MoneyFlows is a research tool for information and education. Scores, signals and AI answers are not recommendations. Do your own research and consider a licensed professional.</p></details><details><summary>Which devices does it run on?</summary><p>MoneyFlows runs on iPhone and iPad. The App Store page lists the iOS version it needs.</p></details><details><summary>How do I contact support?</summary><p>Email <a href="mailto:moneyflowapp@proton.me">moneyflowapp@proton.me</a>. Include your iPhone model, iOS version and app version, and we&rsquo;ll get back to you.</p></details></div>
   </div>
 </section>
 
@@ -233,7 +195,7 @@
   <div class="wrap reveal">
     <svg viewBox="0 0 32 32" width="56" height="56" class="cta-glyph" fill="none" aria-hidden="true"><path d="M3 9c6 0 7 4.5 13 4.5S26 9 29 9" stroke="#6bd3a4" stroke-width="2.6" stroke-linecap="round"/><path d="M3 16c6 0 7 4.5 13 4.5S26 16 29 16" stroke="#39a36b" stroke-width="2.6" stroke-linecap="round"/><path d="M3 23c6 0 7 4.5 13 4.5S26 23 29 23" stroke="#006241" stroke-width="2.6" stroke-linecap="round"/></svg>
     <h2 id="get-h">Follow the money.</h2>
-    <p class="lede">MoneyFlows for iPhone. No account needed.</p>
+    <p class="lede">MoneyFlows for iPhone and iPad. No account needed.</p>
     <div class="cta-row"><a class="btn btn-primary btn-lg" href="https://apps.apple.com/us/app/id6760608278">Download on the App Store</a></div>
     <p class="fine">Research, not advice. Prices may be delayed up to about 15 minutes.</p>
   </div>

diff --git a/styles.css b/styles.css
@@ -265,6 +265,8 @@ h3 { font-size: 1.25rem; line-height: 1.3; letter-spacing: -0.015em; font-weight
 .tabs b { font-size: 0.8em; font-weight: 500; }
 .tabs .on { color: var(--green-hi); }
 
+.screen picture, .screen img { display: block; width: 100%; height: 100%; }
+.screen img { object-fit: cover; object-position: top; }
 .shot figcaption { margin: 1rem auto 0; max-width: 17rem; text-align: center; font-size: 0.8125rem; }
 
 /* ---------- Sections ---------- */
